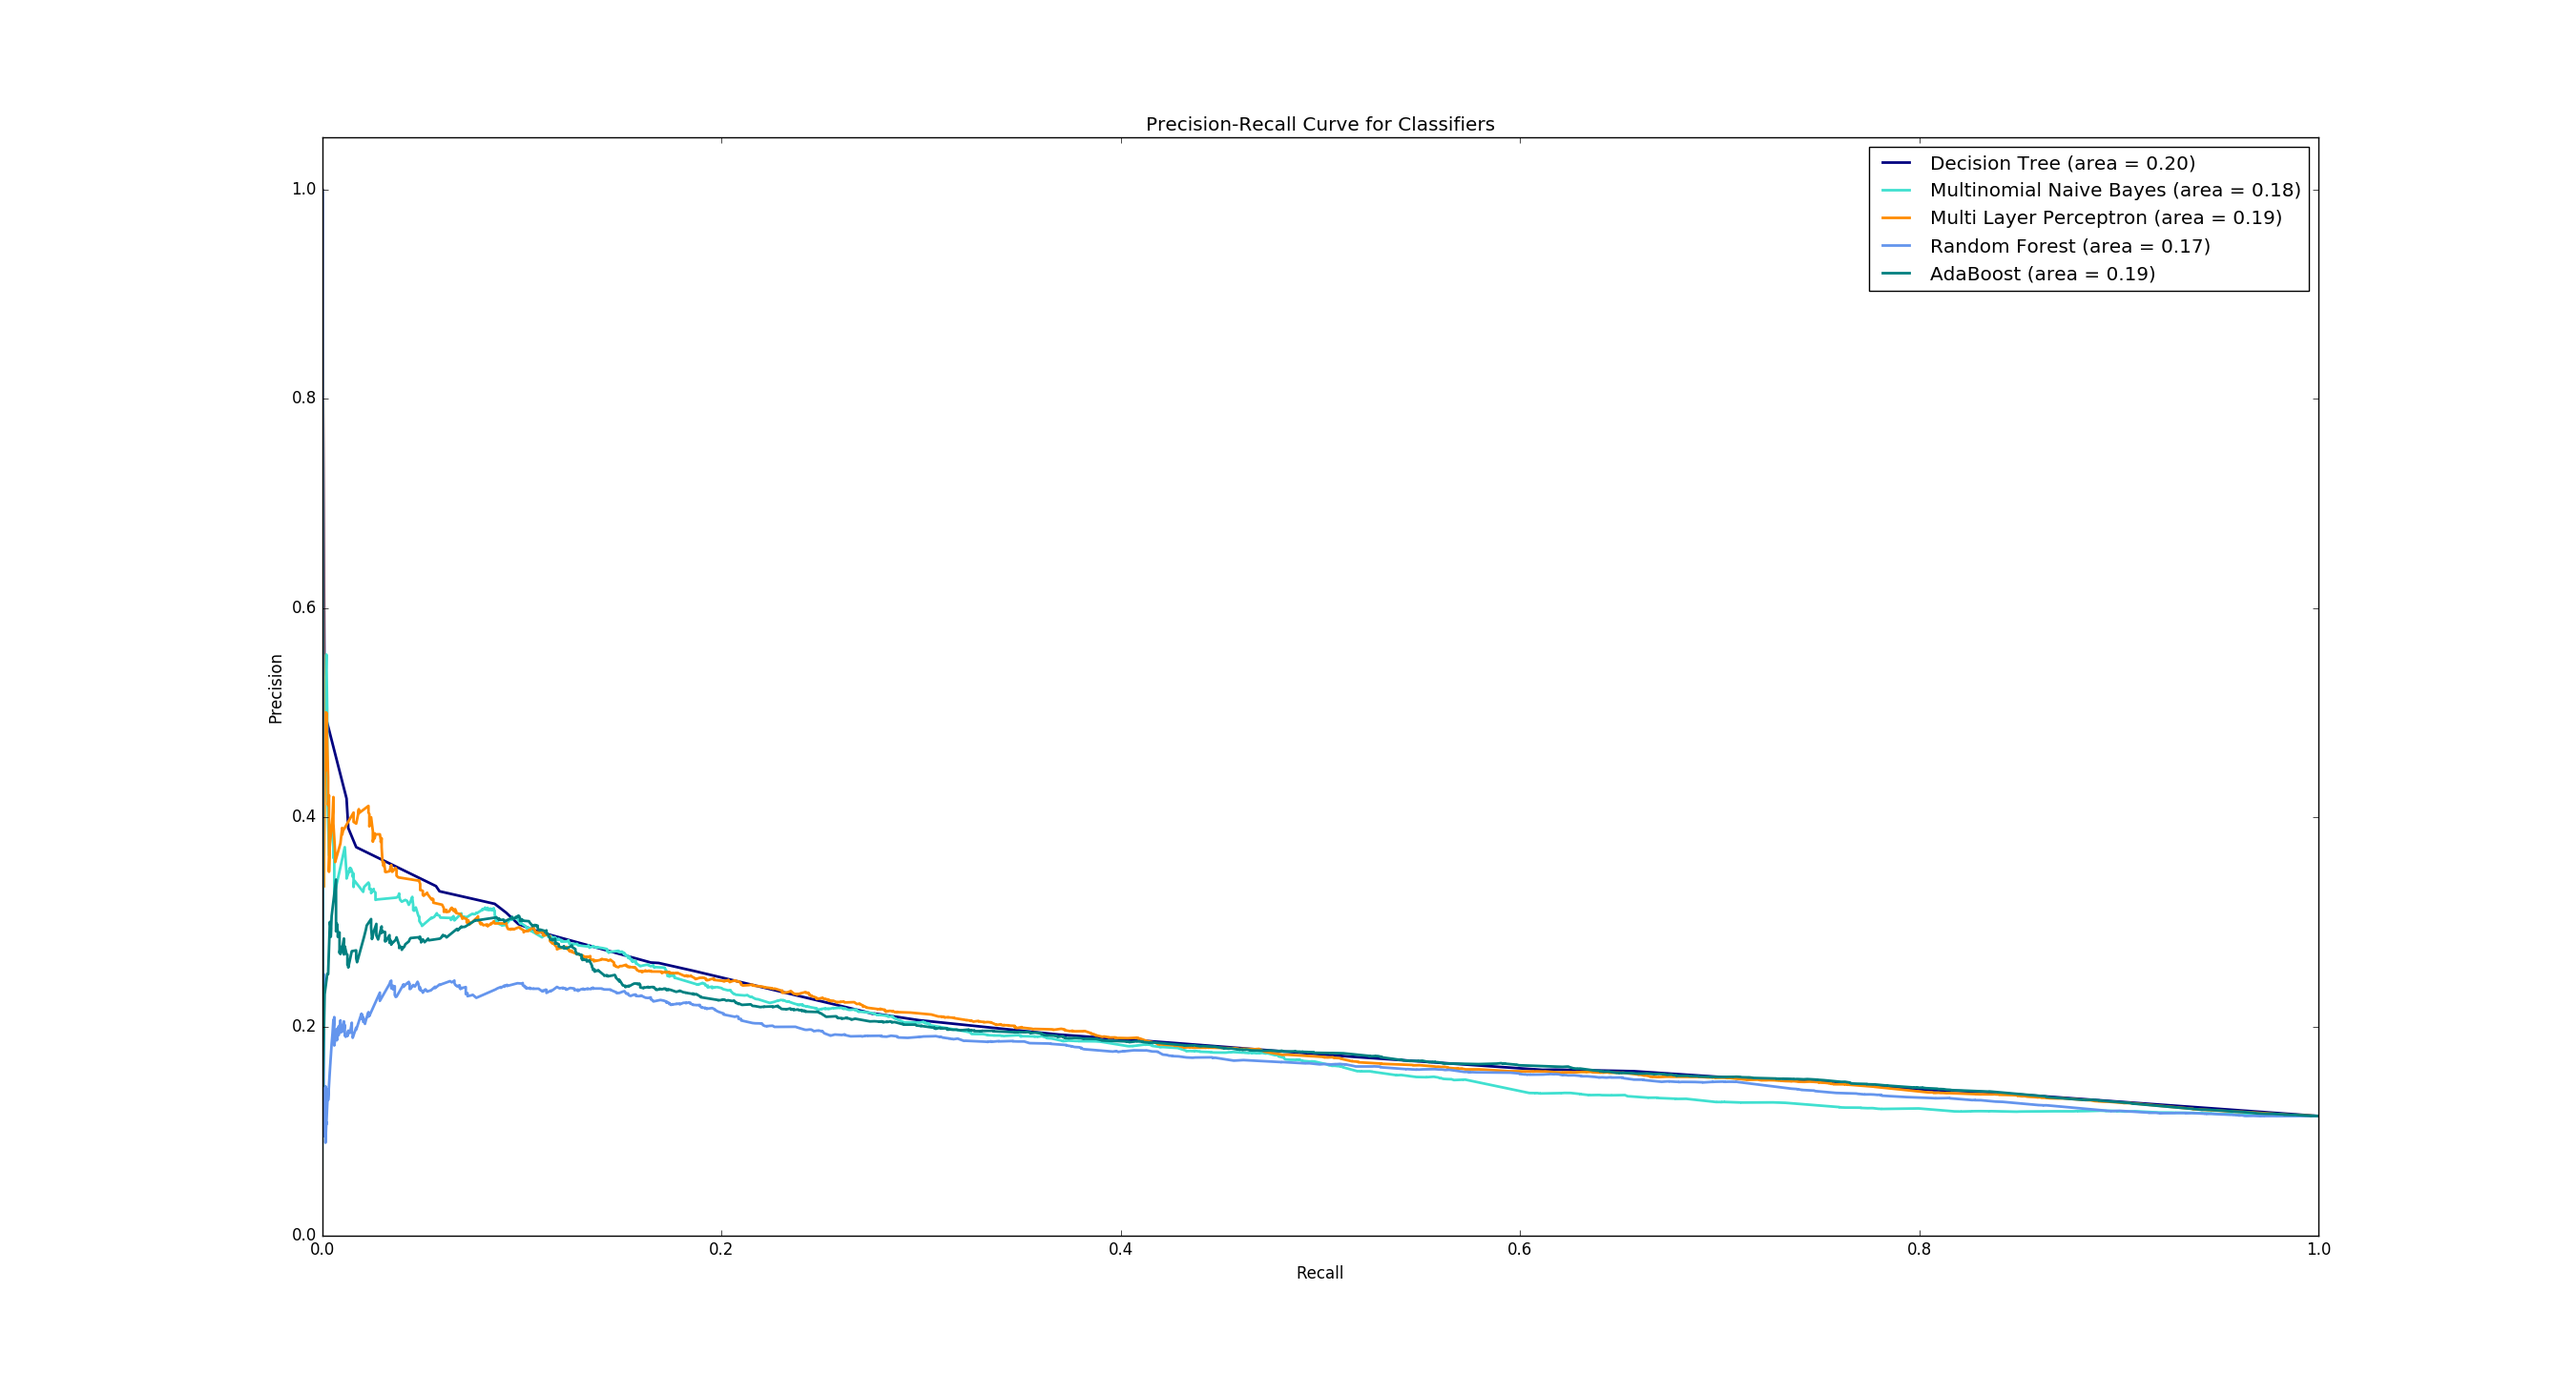
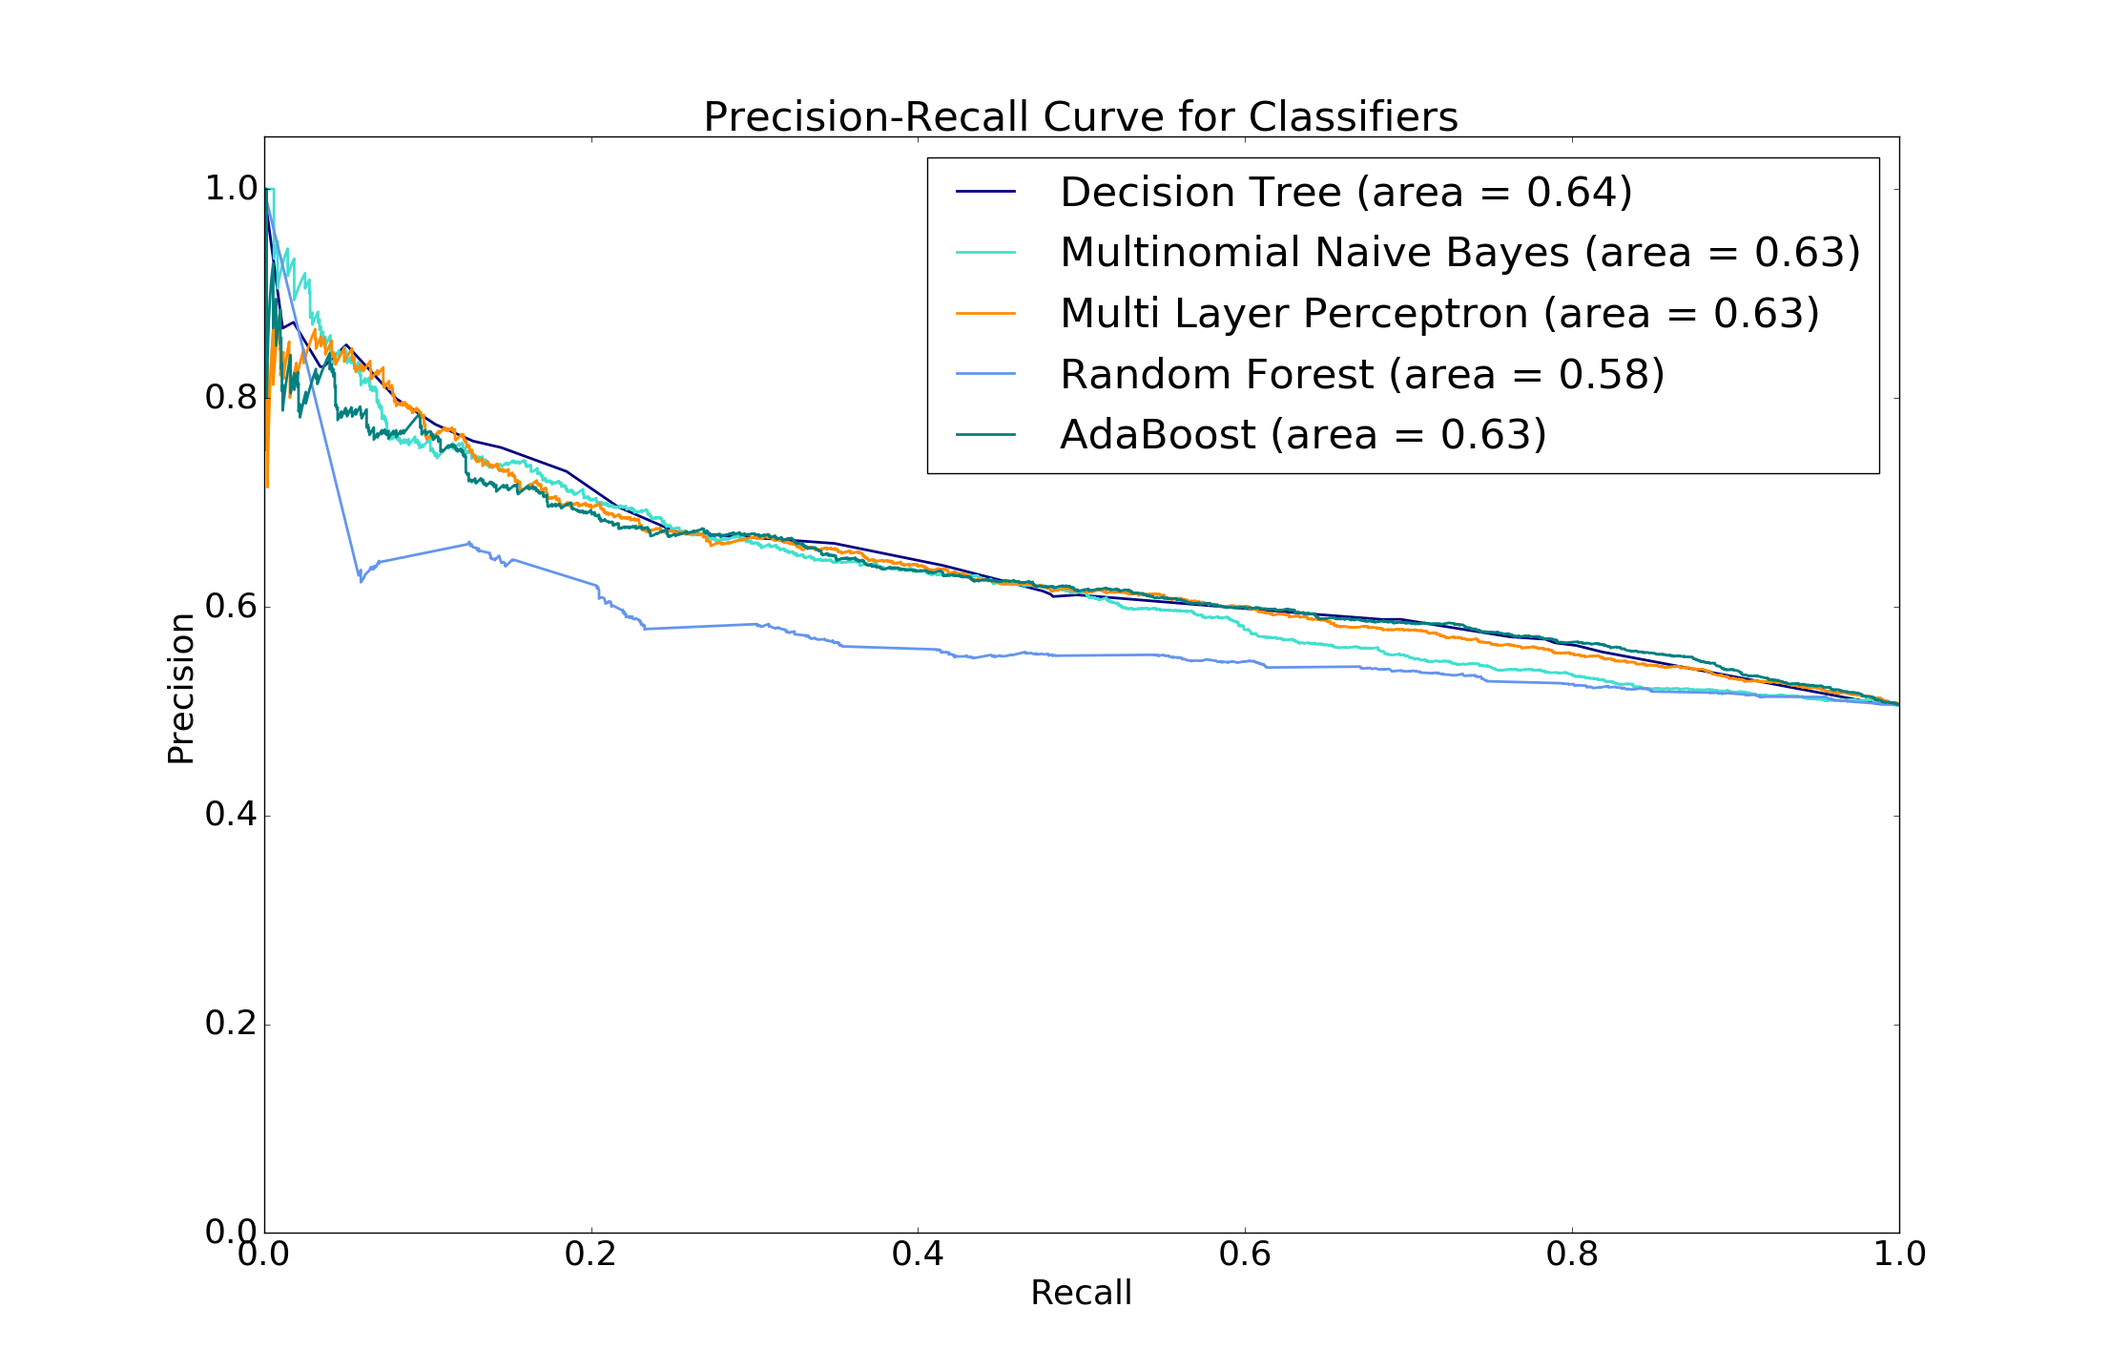
1:1

diff --git a/classifier/diabetic_tree1205.py b/classifier/diabetic_tree1205.py
@@ -6,10 +6,13 @@ import subprocess
 import pandas as pd
 import numpy as np
 import matplotlib.pyplot as plt
+import matplotlib
+matplotlib.rcParams.update({'font.size': 26})
 from itertools import cycle
 
 from sklearn.preprocessing import label_binarize
 from sklearn.preprocessing import OneHotEncoder
+from sklearn.preprocessing import RobustScaler
 
 from sklearn.tree import DecisionTreeClassifier, export_graphviz
 from sklearn.naive_bayes import MultinomialNB
@@ -56,13 +59,22 @@ def encode_target(df, target_column):
     
 #data_defined2, targets = encode_target(resampled, "readmitted")  
 data_defined2, classes = encode_target(data_defined, "readmitted")    
-labels = data_defined2['Target'];
-features = list(data_defined2.columns[:16])
-#X=data_defined2[features]
+readm_group = data_defined2.groupby("Target").get_group(1)
+healthy_group = data_defined2.groupby("Target").get_group(0)
+num_keep_size = min(readm_group.shape[0], healthy_group.shape[0])
+df_balance = readm_group.sample(num_keep_size, replace=False)
+df_balance = df_balance.append(healthy_group.sample(num_keep_size, replace=False))
+df_balance = df_balance.sample(2*num_keep_size, replace=False)
+# labels = data_defined2['Target'];
+# features = list(data_defined2.columns[:16])
+# X=data_defined2[features]
+labels = df_balance['Target'];
+features = list(df_balance.columns[:16])
+X=df_balance[features]
 #features_2= list(data_defined2.columns[3:11])
 #X=data_defined2[features_2]
 
-X=data_defined2[['age','admission_type_id','discharge_disposition_id','time_in_hospital','number_inpatient','A1Cresult','age']]
+#X=data_defined2[['age','admission_type_id','discharge_disposition_id','time_in_hospital','number_inpatient','A1Cresult','age']]
 
 # Convert into np.ndarray
 X = np.array(X)
@@ -76,9 +88,7 @@ num_classes = labels.shape[1]
 # exit()
 
 # Generate Training & Testing Data
-train_data, test_data, train_labels, test_labels = train_test_split(X, labels, test_size=.33, random_state=100)
-print train_data, train_labels
-print train_data.shape, train_labels.shape
+train_data, test_data, train_labels, test_labels = train_test_split(X, labels, test_size=.2, random_state=100)
 
 # Switch for all classifier
 if_all_cls = True
@@ -89,6 +99,7 @@ classifier_names = list()
 
 dtree = DecisionTreeClassifier(max_depth=5,random_state=0)
 dtree.fit(train_data, train_labels.ravel())
+export_graphviz(dtree, max_depth=3,feature_names=features,class_names=["non-readmitted", "readmitted"])
 classifiers.append(dtree) 
 classifier_names.append('Decision Tree')
 
@@ -116,31 +127,57 @@ if if_all_cls:
 
 # Evaluation
 # decision tree
-tree_score = dtree.score(test_data, test_labels)
-# print('dtree', tree_score)
-# result=dtree.predict(test_data)
-# cross validation needs label 1d-array
-# print('Cross_value_train')
-# print(np.mean(cross_val_score(dtree, train_data, train_labels.ravel(), cv=20)))
-# print('Cross_value_test')
-# print(np.mean((cross_val_score(dtree, test_data, test_labels.ravel(), cv=20))))
-# print('confusion_matrix',metrics.confusion_matrix( result, test_labels ))
+print "=======  TREE"
+tree_test_score = dtree.score(test_data, test_labels.ravel())
+tree_train_score = dtree.score(train_data, train_labels.ravel())
+test_results = dtree.predict(test_data)
+print "test_acc:", tree_test_score, ", train_acc:", tree_train_score
+print "cross valid score", np.mean(cross_val_score(dtree, X, labels.ravel(), cv=20))
+print 'confusion_matrix', metrics.confusion_matrix( test_labels.ravel(), test_results)
+print 'f1_score', metrics.f1_score(test_results, test_labels.ravel())
 # tn,fp,fn,tp=metrics.confusion_matrix(test_labels,result).ravel()
 # print('tn,fp,fn,tp',tn,fp,fn,tp)
 # print('matthews_corrcoef',metrics.matthews_corrcoef(result, test_labels))
 # print('cohen_kappa_score',metrics.cohen_kappa_score(result, test_labels))
-# print('f1_score',metrics.f1_score(result, test_labels)  )
 # precision, recall, thresholds = metrics.precision_recall_curve(test_labels,result)  
 # print('precision, recall, thresholds ',precision, recall, thresholds )
-if not if_all_cls:
+if if_all_cls:
     # multinomial naive bayes
-    print("MNB", mnb.score(test_data, test_labels))
+    print "=======  MNB"
+    test_score   = mnb.score(test_data, test_labels.ravel())
+    train_score  = mnb.score(train_data, train_labels.ravel())
+    test_results = mnb.predict(test_data)
+    print "test_acc:", test_score, ", train_acc:", train_score
+    print "cross valid score", np.mean(cross_val_score(mnb, X, labels.ravel(), cv=20))
+    print 'confusion_matrix', metrics.confusion_matrix( test_labels.ravel(), test_results)
+    print 'f2_score', metrics.f1_score(test_results, test_labels.ravel())
     # multi layer perceptron
-    print("MLP", mlp.score(test_data, test_labels))
+    print "=======  MLP"
+    test_score   = mlp.score(test_data, test_labels.ravel())
+    train_score  = mlp.score(train_data, train_labels.ravel())
+    test_results = mlp.predict(test_data)
+    print "test_acc:", test_score, ", train_acc:", train_score
+    print "cross valid score", np.mean(cross_val_score(mlp, X, labels.ravel(), cv=20))
+    print 'confusion_matrix', metrics.confusion_matrix( test_labels.ravel(), test_results)
+    print 'f2_score', metrics.f1_score(test_results, test_labels.ravel())
     # random forest
-    print("RFC", rfc.score(test_data, test_labels))
+    print "=======  RFC"
+    test_score   = rfc.score(test_data, test_labels.ravel())
+    train_score  = rfc.score(train_data, train_labels.ravel())
+    test_results = rfc.predict(test_data)
+    print "test_acc:", test_score, ", train_acc:", train_score
+    print "cross valid score", np.mean(cross_val_score(rfc, X, labels.ravel(), cv=20))
+    print 'confusion_matrix', metrics.confusion_matrix( test_labels.ravel(), test_results)
+    print 'f2_score', metrics.f1_score(test_results, test_labels.ravel())
     # adaptive boosting
-    print("ABC", abc.score(test_data, test_labels))
+    print "=======  ABC"
+    test_score   = abc.score(test_data, test_labels.ravel())
+    train_score  = abc.score(train_data, train_labels.ravel())
+    test_results = abc.predict(test_data)
+    print "test_acc:", test_score, ", train_acc:", train_score
+    print "cross valid score", np.mean(cross_val_score(abc, X, labels.ravel(), cv=20))
+    print 'confusion_matrix', metrics.confusion_matrix( test_labels.ravel(), test_results)
+    print 'f2_score', metrics.f1_score(test_results, test_labels.ravel())
 
 # Functions for Plot
 def compute_roc_auc(classifiers, classifier_names, test_labels, test_data):
@@ -153,16 +190,16 @@ def compute_roc_auc(classifiers, classifier_names, test_labels, test_data):
         # all classifier adopt predict_proba() for roc_curve()
         # if hasattr(classifier, "decision_function"):
         if False:
-            print "########## desicion function ###########", classifier_names[ind]
+            # print "########## desicion function ###########", classifier_names[ind]
             test_score = classifier.decision_function(test_data)
             # Compute ROC curve and ROC area for each class
-            print classifier_names[ind], test_score
+            # print classifier_names[ind], test_score
             fpr[classifier_names[ind]], tpr[classifier_names[ind]], _ = metrics.roc_curve(test_labels.ravel(), test_score)
         else:
-            print "########## predict proba ###########", classifier_names[ind]
+            # print "########## predict proba ###########", classifier_names[ind]
             test_score = classifier.predict_proba(test_data)
             # Compute ROC curve and ROC area for each class
-            print classifier_names[ind], test_score
+            # print classifier_names[ind], test_score
             fpr[classifier_names[ind]], tpr[classifier_names[ind]], _ = metrics.roc_curve(test_labels.ravel(), test_score[:,1])
         roc_auc[classifier_names[ind]] = metrics.auc(fpr[classifier_names[ind]], tpr[classifier_names[ind]])
         ind += 1
@@ -227,8 +264,8 @@ def plot_precision_recall_classes(classifier_names, precision, recall, average_p
 # plot_roc(["Decision Tree"], fpr, tpr, roc_auc)
 
 # Plot all classifiers
-# fpr, tpr, roc_auc = compute_roc_auc(classifiers, classifier_names, test_labels, test_data)
-# plot_roc(classifier_names, fpr, tpr, roc_auc)
+fpr, tpr, roc_auc = compute_roc_auc(classifiers, classifier_names, test_labels, test_data)
+plot_roc(classifier_names, fpr, tpr, roc_auc)
 
 # Precision-Recall
 precision, recall, average_precision = compute_precision_recall(classifiers, classifier_names, test_labels, test_data)
